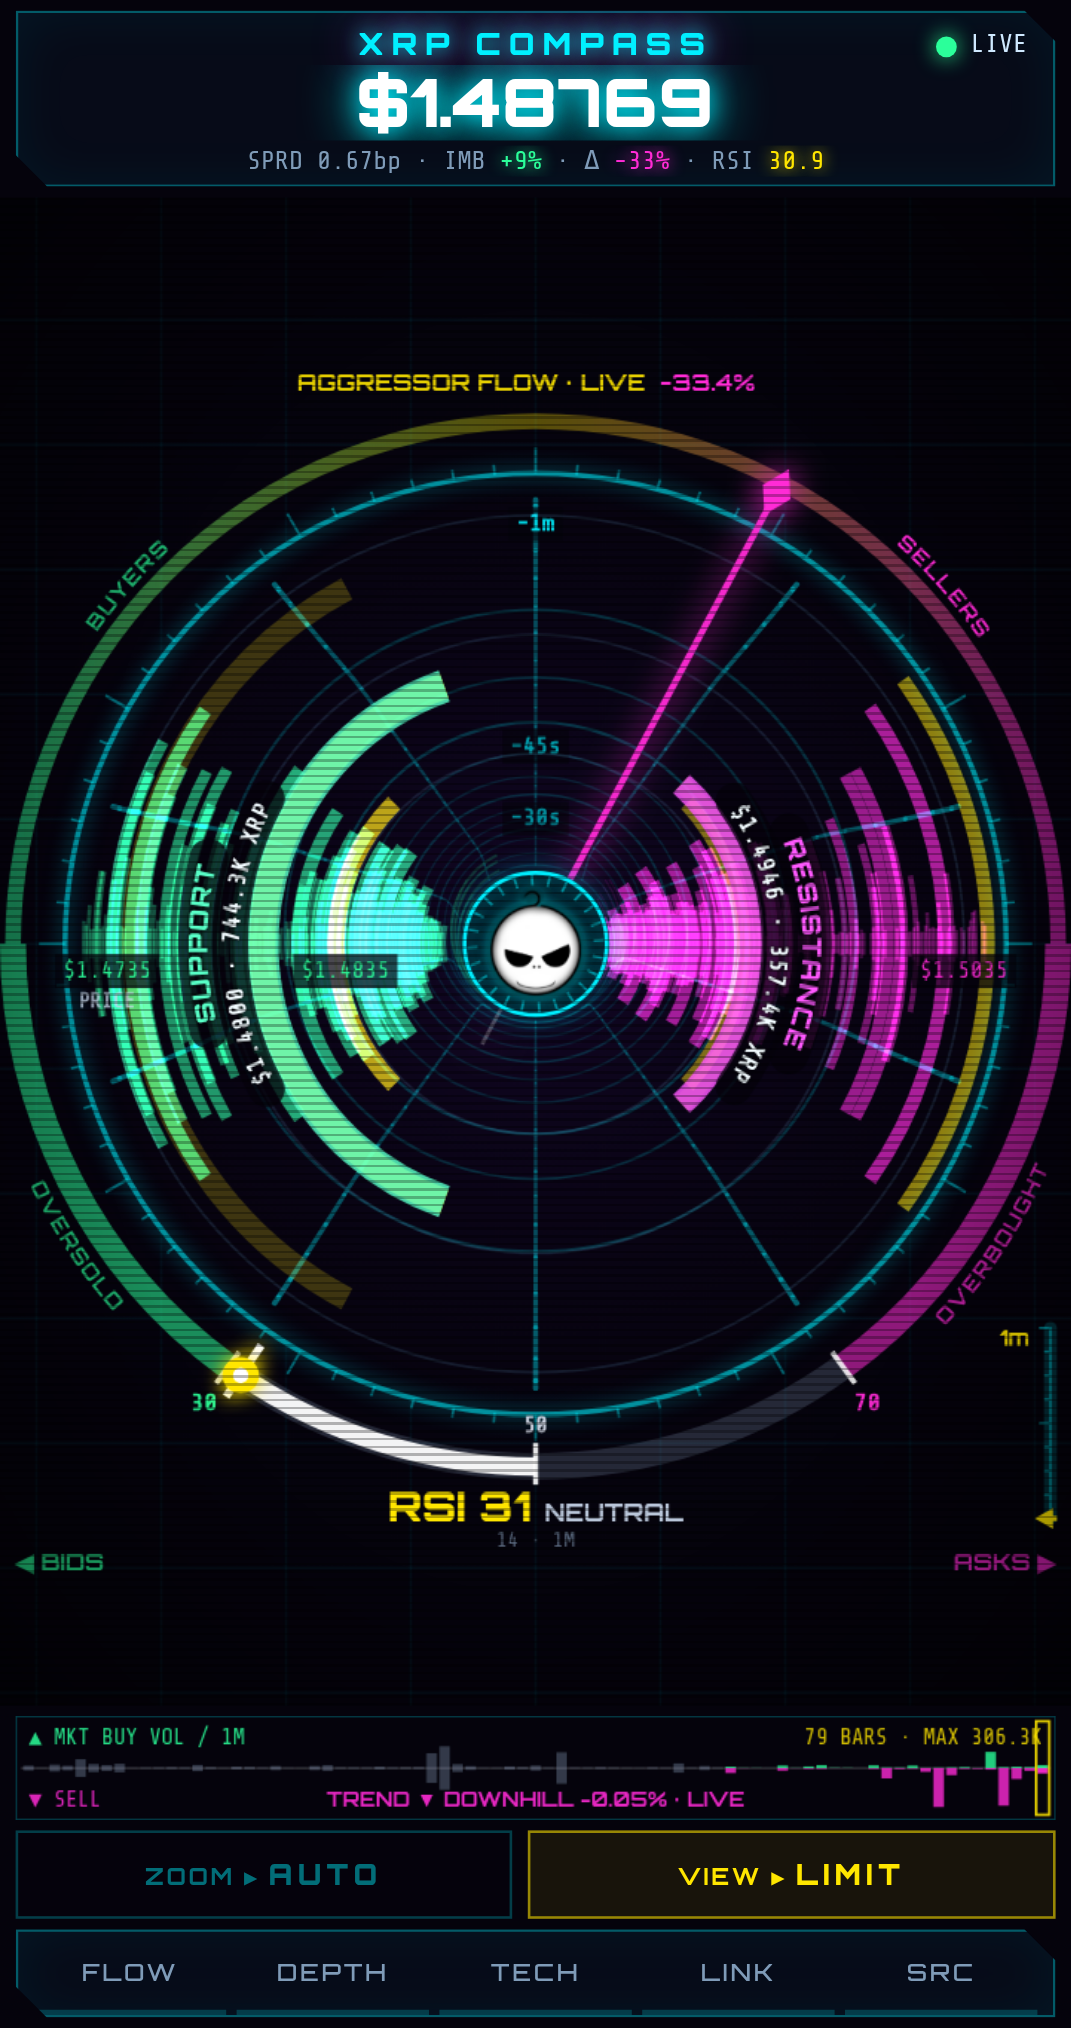
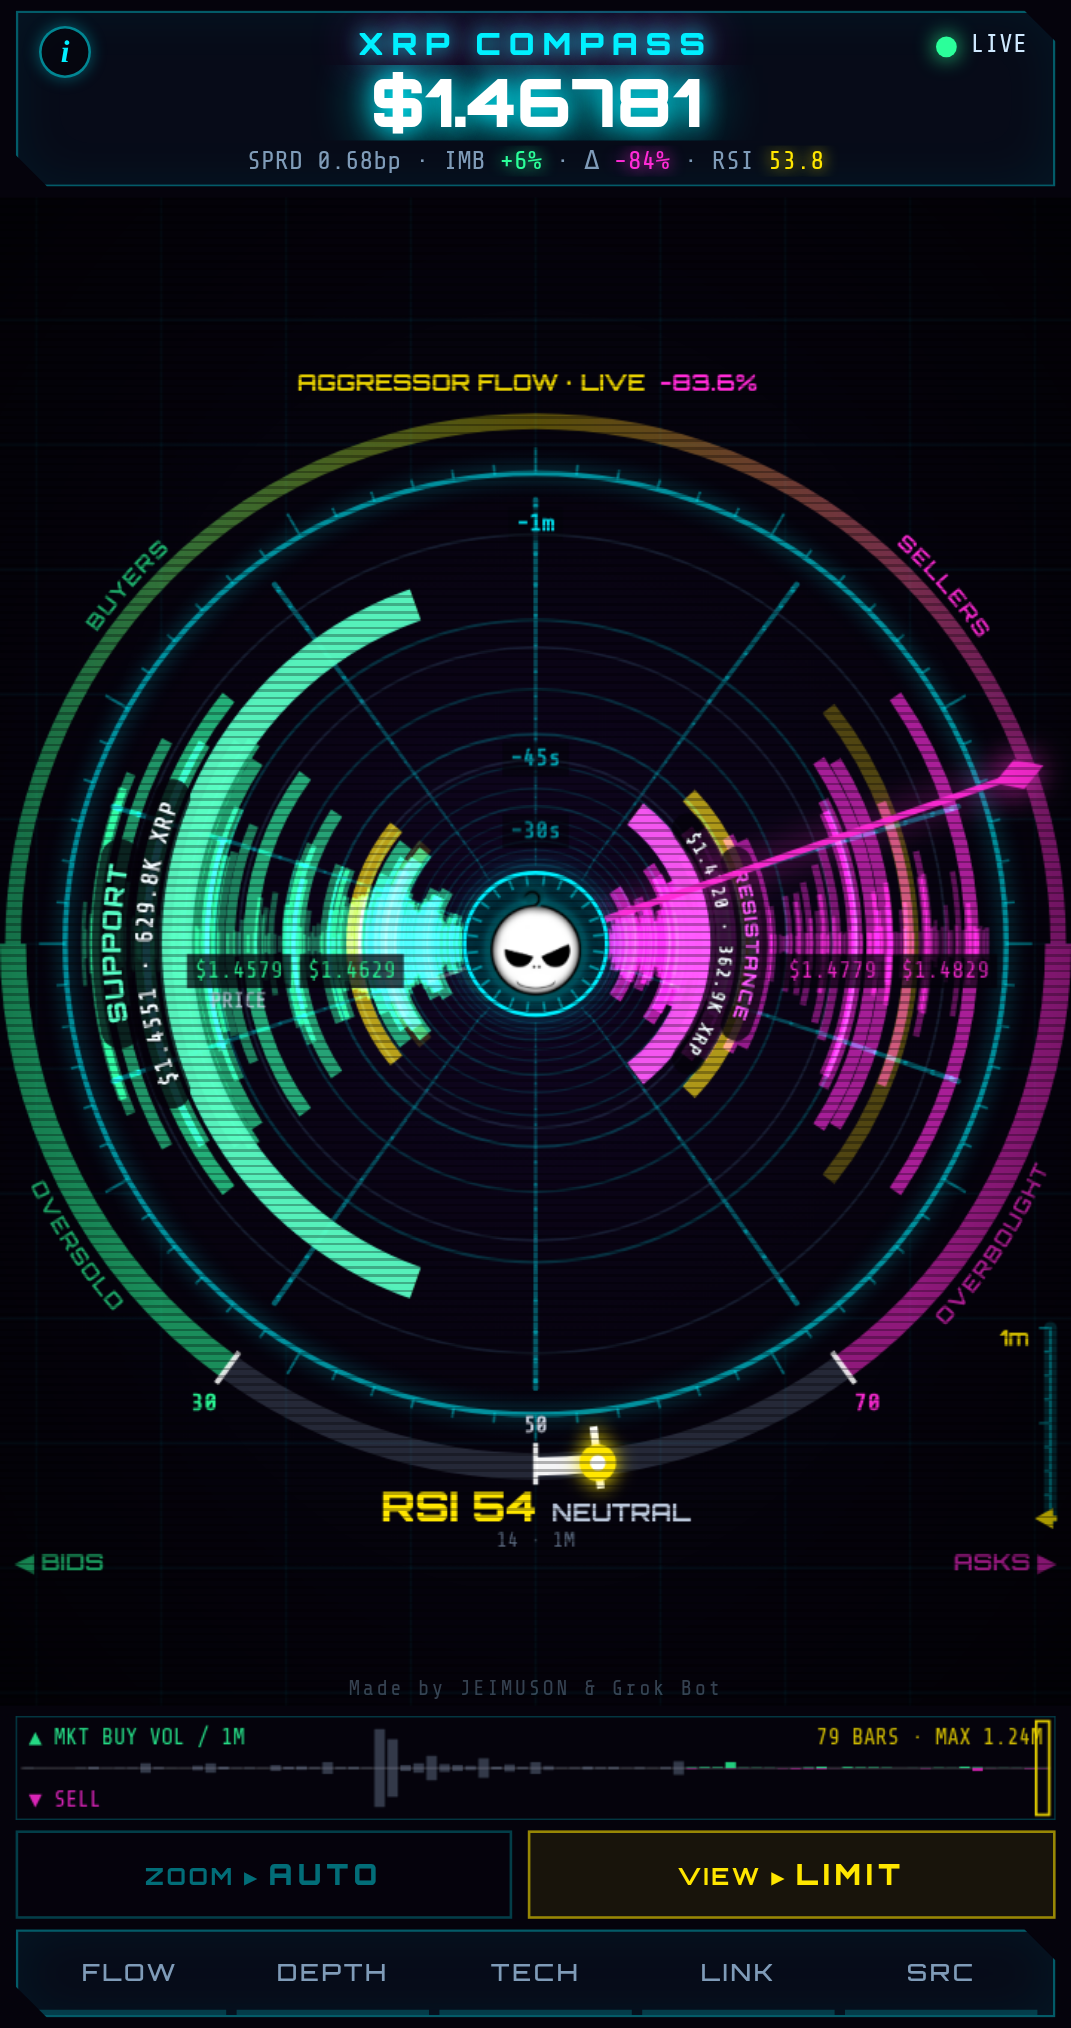
Info panel + credit; MARKET AUTO retune: 45s baseline, 60s dead-slow, price-aware tightening (build 20261002-1520)

diff --git a/index.html b/index.html
@@ -3,7 +3,7 @@
 <head>
 <meta charset="utf-8">
 <meta http-equiv="Cache-Control" content="no-cache, no-store, must-revalidate"><meta http-equiv="Pragma" content="no-cache"><meta http-equiv="Expires" content="0">
-<script>window.OFC_BUILD='20261002-1424';(function(){try{if(!/^https?:/.test(location.protocol))return;fetch(location.pathname+'?_='+Date.now(),{cache:'no-store'}).then(r=>r.text()).then(t=>{const m=t.match(/OFC_BUILD='([^']+)'/);if(m&&m[1]!==window.OFC_BUILD&&sessionStorage.getItem('ofcB')!==m[1]){sessionStorage.setItem('ofcB',m[1]);location.replace(location.pathname+'?v='+m[1]+location.hash);}}).catch(()=>{});}catch(e){}})();</script>
+<script>window.OFC_BUILD='20261002-1520';(function(){try{if(!/^https?:/.test(location.protocol))return;fetch(location.pathname+'?_='+Date.now(),{cache:'no-store'}).then(r=>r.text()).then(t=>{const m=t.match(/OFC_BUILD='([^']+)'/);if(m&&m[1]!==window.OFC_BUILD&&sessionStorage.getItem('ofcB')!==m[1]){sessionStorage.setItem('ofcB',m[1]);location.replace(location.pathname+'?v='+m[1]+location.hash);}}).catch(()=>{});}catch(e){}})();</script>
 <meta name="viewport" content="width=device-width,initial-scale=1,viewport-fit=cover,user-scalable=no">
 <meta name="theme-color" content="#05030c">
 <meta name="color-scheme" content="dark">
@@ -133,14 +133,56 @@ body.hublogo #top .logo{display:none}   /* mobile: logo lives in the compass hub
  #pages h3{margin-right:0}
  .bar{margin:2px 0 3px}
 }
+#infoBtn{position:absolute;left:8px;top:5px;width:20px;height:20px;padding:0;border-radius:50%;background:rgba(5,3,12,.6);border:1px solid rgba(0,240,255,.55);color:var(--cy);font:italic 700 12px/18px Georgia,serif;text-align:center;cursor:pointer;z-index:2;box-shadow:0 0 6px rgba(0,240,255,.35)}
+#infoBtn:hover,#infoBtn:focus-visible{color:#fff;border-color:var(--yl);box-shadow:0 0 10px rgba(255,230,0,.5);outline:none}
+#info{display:none;position:fixed;inset:0;z-index:60;background:rgba(2,1,8,.72);align-items:center;justify-content:center;padding:calc(var(--st) + 12px) 12px calc(var(--sb) + 12px)}
+#info.on{display:flex}
+#infoBox{position:relative;width:min(560px,100%);max-height:100%;overflow-y:auto;-webkit-overflow-scrolling:touch;overscroll-behavior:contain;background:rgba(8,14,28,.97);padding:14px 16px 12px;font-size:13px;line-height:1.45;color:#cfe9ff;-webkit-user-select:text;user-select:text;touch-action:pan-y}
+#infoBox h2{font-family:Orbitron,sans-serif;font-size:12px;letter-spacing:3px;color:var(--cy);text-shadow:0 0 8px var(--cy);margin:0 40px 8px 0}
+#infoBox h3{font-size:10px;margin:10px 0 4px}
+#infoBox ul{list-style:none}
+#infoBox li{position:relative;padding-left:12px;margin:2px 0}
+#infoBox li:before{content:'›';position:absolute;left:0;color:var(--cy)}
+#infoBox b{color:#fff;font-weight:700}#infoBox b.gr{color:var(--gr)}#infoBox b.rd{color:var(--rd)}
+#infoX{position:absolute;top:8px;right:10px;width:34px;height:24px;background:transparent;border:1px solid rgba(0,240,255,.45);color:var(--cy);font-size:14px;cursor:pointer}
+.infoCred{font-family:Orbitron,sans-serif;font-size:10px;letter-spacing:2px;color:var(--cy);text-align:center;margin-top:12px;text-shadow:0 0 6px rgba(0,240,255,.6)}
+#credit{position:absolute;left:50%;bottom:2px;transform:translateX(-50%);z-index:9;pointer-events:none;white-space:nowrap;font-size:8px;letter-spacing:1px;color:rgba(160,200,230,.32)}
+@media (min-aspect-ratio:1/1){#credit{left:6px;transform:none;bottom:3px;font-size:9px}}
+.infoFoot{font-size:10px;color:#5f7a95;text-align:center;margin-top:10px}
+@media (min-aspect-ratio:1/1) and (min-width:900px) and (min-height:700px){#infoBox{font-size:15px;width:min(640px,100%);padding:20px 24px 16px}#infoBox h2{font-size:14px}#infoBox h3{font-size:12px}}
 #glitch{position:fixed;inset:0;z-index:7;pointer-events:none;opacity:0}
 </style>
 </head>
 <body>
+<div id="info" role="dialog" aria-modal="true" aria-labelledby="infoT"><div id="infoBox" class="panel">
+ <button id="infoX" aria-label="close">✕</button>
+ <h2 id="infoT">// WHAT YOU'RE SEEING</h2>
+ <h3>MARKET VIEW · LIVE TRADES</h3>
+ <ul><li>Every trade lands on a <b>spiral</b>: newest on the outer ring, older ones wind into the center.</li>
+ <li>One lap = the time window (15–60s, shown on the zoom bar).</li>
+ <li>Trail swings <b>out</b> = price up, <b>in</b> = price down.</li>
+ <li><b class="gr">Green</b> = buyers, <b class="rd">red</b> = sellers. Thicker trail = more volume.</li>
+ <li><b>Flares</b> mark the spots with the heaviest trading.</li></ul>
+ <h3>LIMIT VIEW · ORDER-BOOK WALLS</h3>
+ <ul><li>Arcs are <b>walls</b> of waiting orders: <b class="gr">buyers left</b>, <b class="rd">sellers right</b>.</li>
+ <li>Distance from the middle = distance from the current price.</li>
+ <li>Bigger, brighter arc = bigger wall.</li>
+ <li>New walls start at the center and drift outward over time. A wall that stays is <b>holding</b>; one that vanishes was <b>pulled or eaten</b>.</li>
+ <li><b class="gr">SUPPORT</b> / <b class="rd">RESISTANCE</b> = the strongest nearby wall on each side.</li></ul>
+ <h3>AUTO ZOOM</h3>
+ <ul><li><b>MARKET:</b> normal traffic shows ~45s, dead-slow up to 60s. Price moves tighten it; volume bursts snap to a 15s vortex.</li>
+ <li><b>LIMIT:</b> quiet = 15s; heavy trading zooms out to 1m so you see walls get hit.</li>
+ <li><b>AUTO off</b> = full zoom out; then zoom by pinch, wheel or the zoom bar.</li></ul>
+ <h3>ALSO</h3>
+ <ul><li><b>RSI arc</b> (bottom): momentum. Left = oversold, right = overbought.</li>
+ <li><b>SRC</b>: venues feeding the book. Pick ALL or one exchange.</li></ul>
+ <div class="infoCred">Made by JEIMUSON &amp; Grok Bot</div>
+ <div class="infoFoot">tap outside, ✕ or Esc to close</div>
+</div></div>
 <div id="app">
-<div id="colA"><div id="stage"><canvas id="cv"></canvas><div id="vig"></div><div id="scan"></div><canvas id="lcv"></canvas></div><canvas id="vcv"></canvas></div>
+<div id="colA"><div id="stage"><canvas id="cv"></canvas><div id="vig"></div><div id="scan"></div><canvas id="lcv"></canvas><div id="credit" aria-hidden="true">Made by JEIMUSON &amp; Grok Bot</div></div><canvas id="vcv"></canvas></div>
 <div id="colB">
-<div class="panel" id="top">
+<div class="panel" id="top"><button id="infoBtn" aria-label="what am I looking at?" title="what am I looking at?">i</button>
  <div class="l1"><img class="logo" src="logo-64.png" srcset="logo-64.png 1x, logo-128.png 2x, logo.png 3x" alt="" width="22" height="22"><div class="t1">XRP&nbsp;COMPASS</div><div class="conn" id="conn"><span class="dot" style="background:#555"></span>INIT</div></div>
  <div class="lp"><div class="big" id="mid">—</div></div>
  <div class="l2">SPRD <span id="spread">—</span> · IMB <span id="imb">—</span> · Δ <span id="dlt">—</span> · RSI <span id="rsiTop">—</span></div>
@@ -369,6 +411,10 @@ let burst={on:false,until:0,rel:0,r3:0,base:0,usd3:0};
 // LIMIT + AUTO (opposite of MARKET): quiet tape -> 15 s depth; heavier traffic vs the 60 s baseline -> deeper, toward 1 m; burst -> full 1 m.
 // rho = 3 s USD rate / 60 s baseline: rho<=1 -> 15 s, rho=2 -> 30 s, rho>=3 (=BURST_X) or burst -> 60 s (log scale). Deeper targets hold 5 s (burst: +6.5 s burst hold) before easing back in.
 let LT={w:15,hold:0,rho:0};
+// MARKET + AUTO window: volume sets the baseline (normal -> 45 s, dead-slow -> 60 s); price moves tighten it toward 15 s; a volume burst snaps to 15 s.
+//  q  = 60 s USD rate / 10 min EMA of that rate:   q>=0.6 -> 45 s,  q<=0.25 -> 60 s (log-interp between)
+//  z  = max |mid move| over last 10 s / 5 min EMA of that same measure (typical 10 s move):  z<=1.5 -> no change, z>=4 -> 15 s (log-interp)
+let MT={w:45,hold:0,q:1,z:0,vb:0,sg:0,t0:0,mp:[]};
 setInterval(()=>{if(!trades.length)return;const n=Date.now();let u3=0,u60=0,old=n;
   for(let i=trades.length-1;i>=0;i--){const t=trades[i],ag=n-t.t;if(ag>63000)break;const u=t.qty*t.px;if(ag<=3000)u3+=u;else u60+=u;old=Math.min(old,t.t);}
   const bspan=Math.min(60,(n-old)/1000-3), base=bspan>=20?u60/bspan:0, r3=u3/3;
@@ -376,6 +422,16 @@ setInterval(()=>{if(!trades.length)return;const n=Date.now();let u3=0,u60=0,old=
   if(base>0&&r3>=BURST_X*base&&u3>=BURST_MIN_USD)burst.until=n+BURST_HOLD;
   {const rho=base>0&&u3>=BURST_MIN_USD*0.2?r3/base:0,k=Math.max(0,Math.min(1,(rho-1)/(BURST_X-1)));LT.rho=rho;
     const wt=n<burst.until?LWMAX:WMIN*Math.pow(LWMAX/WMIN,k);if(wt>=LT.w){LT.w=wt;LT.hold=n+5000;}else if(n>LT.hold)LT.w=wt;}
+  {if(!MT.t0)MT.t0=n;const el=(n-MT.t0)/1000,cl=x=>Math.max(0,Math.min(1,x));
+    if(mid){MT.mp.push([n,mid]);while(MT.mp.length&&n-MT.mp[0][0]>10000)MT.mp.shift();}
+    let mv=0;for(const e of MT.mp)mv=Math.max(mv,Math.abs(mid-e[1]));
+    const span10=MT.mp.length?(n-MT.mp[0][0])/1000:0, fl=(mid||1)*0.00002;
+    if(span10>=8){const a=1-Math.exp(-0.25/Math.min(300,10+el));MT.sg=MT.sg?MT.sg+(Math.max(mv,fl)-MT.sg)*a:Math.max(mv,fl);}
+    if(base>0){const a=1-Math.exp(-0.25/Math.min(600,20+el));MT.vb=MT.vb?MT.vb+(base-MT.vb)*a:base;}
+    MT.q=bspan>=20&&MT.vb>0?base/MT.vb:1; MT.z=MT.sg>0&&span10>=8?mv/MT.sg:0;
+    const kv=cl((MT.q-0.25)/0.35), wv=MWMAX*Math.pow(45/MWMAX,kv), kp=cl((MT.z-1.5)/2.5);
+    const wt=n<burst.until?BURST_WIN:wv*Math.pow(WMIN/wv,kp);
+    if(wt<=MT.w){MT.w=wt;MT.hold=n+3000;}else if(n>MT.hold)MT.w=wt;}
   const was=burst.on;burst.on=n<burst.until;if(was&&!burst.on)burst.rel=n;},250);
 
 // ---------------- trades ----------------
@@ -1503,9 +1559,7 @@ function frame(){
   if(mid&&sortedB.length>5&&sortedA.length>5){
     {const db=mid-sortedB[Math.floor(sortedB.length*0.7)][0], da=sortedA[Math.floor(sortedA.length*0.7)][0]-mid;let f;
       if(VIEW==='market'){ // fit the recent trade price range so bubbles spread across the dial
-        const dev=Wn=>{let mx=0;for(let a=0;a<=Math.min(trail.length-1,Wn);a++)if(trail[a].Ps!=null)mx=Math.max(mx,Math.abs(trail[a].Ps-mid));return mx;};
-        const full=dev(MWMAX);let Wsel=MWMAX;if(full>mid*0.00003)for(const Wn of [15,20,30,45,60]){if(dev(Wn)>=0.7*full){Wsel=Wn;break;}}
-        if(burst.on)Wsel=BURST_WIN;   // volume burst -> tight vortex
+        const Wsel=burst.on?BURST_WIN:MT.w;   // volume burst -> tight vortex; else volume baseline (45/60 s) tightened by price moves (see MT)
         f=zR(Math.log(MWMAX/Wsel)/Math.log(MWMAX/WMIN));
       }else{f=Math.max(db,da)/mid;}
       f=Math.min(ZMAX,Math.max(ZMIN,f)); fitFrac=f;
@@ -1549,8 +1603,17 @@ function frame(){
 connect();seedREST();
 requestAnimationFrame(frame);
 document.addEventListener('visibilitychange',()=>{if(!document.hidden&&(!ws||ws.readyState>1)){backoff=1000;connect();}});
-window.__ofc={get lt(){return {w:+LT.w.toFixed(1),rho:+LT.rho.toFixed(2),lwin:+LWIN.toFixed(1),burst:burst.on}},get keyWalls(){return VIEW==='limit'?{...KEYW,nSig:{bid:topWalls.bid.length,ask:topWalls.ask.length},marks:PLBL.map(q=>q.txt)}:null},simFlat(){SIM={on:true,base:mid,t0:0,dir:0,amp:0,ramp:1};},simMove(dir,frac,ramp){SIM.t0=Date.now();SIM.dir=dir;SIM.amp=frac*SIM.base;SIM.ramp=ramp;},get resp(){const v=proj(HIST_SEC),m=proj(HIST_SEC*0.4);return {tw:+(TWIST_MAX*VSP.w*180/Math.PI).toFixed(2),vp:+(v.y-CY).toFixed(1),vm:+(m.y-CY).toFixed(1),o3:+((window.__ofcR||{}).o3||0).toFixed(1),o8:+((window.__ofcR||{}).o8||0).toFixed(1),mw:+MWIN.toFixed(1),dr:dispRange,pr:pathRef}},get bp(){return BP.length},autoOff(){pillT=0;if(rangeAuto)pillTap();},get dr(){return dispRange},get hubLogo(){return !WIDE&&LOGO.complete&&LOGO.naturalWidth>0},get hdrLogo(){const e=document.querySelector('#top .logo');return !!e&&getComputedStyle(e).display!=='none'},get flares(){return VIEW==='market'?[...FLR.entries()].map(([k,F])=>{const p=F.dx!=null?{x:F.dx,y:F.dy}:null;return {k,T:F.T,tT:trailT,st:trailStep,w:+F.w.toFixed(2),on:!!F.on,side:F.c===COL.bid?'bid':'ask',x:p?Math.round(p.x):null,y:p?Math.round(p.y):null};}):null},winTo(S){intro=null;setAuto(false);syncZA();let lo=0,hi=1;const f=u=>mWinOf(zR(u));const dec=f(0)>f(1);for(let i=0;i<40;i++){const m=(lo+hi)/2;if((f(m)>S)===dec)lo=m;else hi=m;}rangeFrac=zR((lo+hi)/2);return f((lo+hi)/2);},get vring(){if(VIEW!=='market')return null;const p=proj(HIST_SEC);return {full:+(RMAX*p.s).toFixed(1),r:+(RMAX*p.s).toFixed(1),x:Math.round(p.x),y:Math.round(p.y),R0:Math.round(R0)}},get twist(){return VIEW==='market'?+(TWIST_MAX*VSP.w*180/Math.PI).toFixed(1):0},get spin(){return {w:+VSP.w.toFixed(3),ph:+VSP.ph.toFixed(3)}},zManual(){intro=null;setAuto(false);syncZA();},get burst(){return {...burst,now:Date.now()}},simBurst(usd){const px=trades.length?trades[trades.length-1].px:mid,n=Date.now();for(let k=0;k<8;k++)trades.push({t:n-(7-k)*300,side:k%2?'sell':'buy',qty:usd/8/px,px,v:'kraken'});trailDirty=true;},get auto(){return rangeAuto},zAuto(){intro=null;setAuto(true);syncZA();},zIn(){intro=null;setAuto(false);rangeFrac=zR(1);syncZA();},get mwin(){return +MWIN.toFixed(1)},get lwin(){return +LWIN.toFixed(1)},get prange(){return PRANGE},get disp(){return dispRange},get plbl(){return PLBL.map(q=>q.txt)},get hubTxt(){return mid?hubTxt():null},get head(){return {x:Math.round(TRHEAD.x),y:Math.round(TRHEAD.y),CX,CY,R0:Math.round(R0),RMAX:Math.round(RMAX)}},get logo(){const g=logoGeom();return g&&{x:Math.round(g.x),y:Math.round(g.y),S:g.S,CX,CY,RMAX,W,H,Z:zbarGeom()}},get ven(){return Object.fromEntries(Object.entries(VEN).map(([k,v])=>[k,{st:v.st,share:+v.share.toFixed(3),books:BOOKS.filter(B=>B.v===k).map(B=>({k:B.k,ready:B.ready,n:B.b.size+B.a.size,ck:B.ckOk,ckBad:B.ckBad,resyncs:B.resyncs}))}]))},get src(){return SRC},setSource,get comb(){return {ready:BREADY,mid,bestBid,bestAsk,nb:sortedB.length,na:sortedA.length}},get raw(){return RAW.length},get flow(){const f=flow(30);return {b:Math.round(f.b),s:Math.round(f.s),r:+f.r.toFixed(3)}},get trendW(){return trendWin()},get win(){return winSec},get heatN(){return Object.fromEntries(Object.entries(HEATS).map(([w,H])=>[w,H.m.size]))},get intro(){return intro},book,get mid(){return mid},get ck(){return {ckOk,ckBad,ckLast}},get trades(){return tradeCount},get bubbles(){return bubbles.length},get hist(){return history.length},get ind(){return ind},get candles(){return candles.size},get dir(){return INBOUND?'in':'out'},get view(){return VIEW},get layout(){return {W,H,CX,CY,RMAX,R0,WIDE}},get tunnel(){const far=proj(HIST_SEC);return {FOCAL,farScale:far.s,farY:far.y-CY,dispRange,fitFrac,rangeAuto,RMAX}},zoom(f){setAuto(false);rangeFrac=Math.min(0.08,Math.max(0.0005,rangeFrac*f));},autoZoom(){setAuto(true);},get autoOn(){return rangeAuto},get zgeom(){return zbarGeom()},get conn(){return connState},get fps(){return FPS},get q(){return Q},get rc(){return reconnects},forceDrop(){ws&&ws.close();}};
+window.__ofc={get mt(){return {w:+MT.w.toFixed(1),q:+MT.q.toFixed(2),z:+MT.z.toFixed(2),sg:MT.sg,burst:burst.on}},get lt(){return {w:+LT.w.toFixed(1),rho:+LT.rho.toFixed(2),lwin:+LWIN.toFixed(1),burst:burst.on}},get keyWalls(){return VIEW==='limit'?{...KEYW,nSig:{bid:topWalls.bid.length,ask:topWalls.ask.length},marks:PLBL.map(q=>q.txt)}:null},simFlat(){SIM={on:true,base:mid,t0:0,dir:0,amp:0,ramp:1};},simMove(dir,frac,ramp){SIM.t0=Date.now();SIM.dir=dir;SIM.amp=frac*SIM.base;SIM.ramp=ramp;},get resp(){const v=proj(HIST_SEC),m=proj(HIST_SEC*0.4);return {tw:+(TWIST_MAX*VSP.w*180/Math.PI).toFixed(2),vp:+(v.y-CY).toFixed(1),vm:+(m.y-CY).toFixed(1),o3:+((window.__ofcR||{}).o3||0).toFixed(1),o8:+((window.__ofcR||{}).o8||0).toFixed(1),mw:+MWIN.toFixed(1),dr:dispRange,pr:pathRef}},get bp(){return BP.length},autoOff(){pillT=0;if(rangeAuto)pillTap();},get dr(){return dispRange},get hubLogo(){return !WIDE&&LOGO.complete&&LOGO.naturalWidth>0},get hdrLogo(){const e=document.querySelector('#top .logo');return !!e&&getComputedStyle(e).display!=='none'},get flares(){return VIEW==='market'?[...FLR.entries()].map(([k,F])=>{const p=F.dx!=null?{x:F.dx,y:F.dy}:null;return {k,T:F.T,tT:trailT,st:trailStep,w:+F.w.toFixed(2),on:!!F.on,side:F.c===COL.bid?'bid':'ask',x:p?Math.round(p.x):null,y:p?Math.round(p.y):null};}):null},winTo(S){intro=null;setAuto(false);syncZA();let lo=0,hi=1;const f=u=>mWinOf(zR(u));const dec=f(0)>f(1);for(let i=0;i<40;i++){const m=(lo+hi)/2;if((f(m)>S)===dec)lo=m;else hi=m;}rangeFrac=zR((lo+hi)/2);return f((lo+hi)/2);},get vring(){if(VIEW!=='market')return null;const p=proj(HIST_SEC);return {full:+(RMAX*p.s).toFixed(1),r:+(RMAX*p.s).toFixed(1),x:Math.round(p.x),y:Math.round(p.y),R0:Math.round(R0)}},get twist(){return VIEW==='market'?+(TWIST_MAX*VSP.w*180/Math.PI).toFixed(1):0},get spin(){return {w:+VSP.w.toFixed(3),ph:+VSP.ph.toFixed(3)}},zManual(){intro=null;setAuto(false);syncZA();},get burst(){return {...burst,now:Date.now()}},simBurst(usd){const px=trades.length?trades[trades.length-1].px:mid,n=Date.now();for(let k=0;k<8;k++)trades.push({t:n-(7-k)*300,side:k%2?'sell':'buy',qty:usd/8/px,px,v:'kraken'});trailDirty=true;},get auto(){return rangeAuto},zAuto(){intro=null;setAuto(true);syncZA();},zIn(){intro=null;setAuto(false);rangeFrac=zR(1);syncZA();},get mwin(){return +MWIN.toFixed(1)},get lwin(){return +LWIN.toFixed(1)},get prange(){return PRANGE},get disp(){return dispRange},get plbl(){return PLBL.map(q=>q.txt)},get hubTxt(){return mid?hubTxt():null},get head(){return {x:Math.round(TRHEAD.x),y:Math.round(TRHEAD.y),CX,CY,R0:Math.round(R0),RMAX:Math.round(RMAX)}},get logo(){const g=logoGeom();return g&&{x:Math.round(g.x),y:Math.round(g.y),S:g.S,CX,CY,RMAX,W,H,Z:zbarGeom()}},get ven(){return Object.fromEntries(Object.entries(VEN).map(([k,v])=>[k,{st:v.st,share:+v.share.toFixed(3),books:BOOKS.filter(B=>B.v===k).map(B=>({k:B.k,ready:B.ready,n:B.b.size+B.a.size,ck:B.ckOk,ckBad:B.ckBad,resyncs:B.resyncs}))}]))},get src(){return SRC},setSource,get comb(){return {ready:BREADY,mid,bestBid,bestAsk,nb:sortedB.length,na:sortedA.length}},get raw(){return RAW.length},get flow(){const f=flow(30);return {b:Math.round(f.b),s:Math.round(f.s),r:+f.r.toFixed(3)}},get trendW(){return trendWin()},get win(){return winSec},get heatN(){return Object.fromEntries(Object.entries(HEATS).map(([w,H])=>[w,H.m.size]))},get intro(){return intro},book,get mid(){return mid},get ck(){return {ckOk,ckBad,ckLast}},get trades(){return tradeCount},get bubbles(){return bubbles.length},get hist(){return history.length},get ind(){return ind},get candles(){return candles.size},get dir(){return INBOUND?'in':'out'},get view(){return VIEW},get layout(){return {W,H,CX,CY,RMAX,R0,WIDE}},get tunnel(){const far=proj(HIST_SEC);return {FOCAL,farScale:far.s,farY:far.y-CY,dispRange,fitFrac,rangeAuto,RMAX}},zoom(f){setAuto(false);rangeFrac=Math.min(0.08,Math.max(0.0005,rangeFrac*f));},autoZoom(){setAuto(true);},get autoOn(){return rangeAuto},get zgeom(){return zbarGeom()},get conn(){return connState},get fps(){return FPS},get q(){return Q},get rc(){return reconnects},forceDrop(){ws&&ws.close();}};
 })();
+// ---------------- INFO overlay: what am I looking at? (✕ / tap outside / Esc) ----------------
+(function(){const I=document.getElementById('info'),B=document.getElementById('infoBtn');if(!I||!B)return;
+  const open=()=>{I.classList.add('on');document.getElementById('infoX').focus({preventScroll:true});},close=()=>{I.classList.remove('on');B.focus({preventScroll:true});};
+  B.addEventListener('click',e=>{e.stopPropagation();open();});
+  document.getElementById('infoX').addEventListener('click',e=>{e.stopPropagation();close();});
+  I.addEventListener('click',e=>{if(e.target===I)close();e.stopPropagation();});
+  ['touchstart','touchmove','touchend','wheel','mousedown'].forEach(ev=>I.addEventListener(ev,e=>e.stopPropagation(),{passive:true}));
+  addEventListener('keydown',e=>{if(e.key==='Escape'&&I.classList.contains('on'))close();});
+  window.__info={open,close,get on(){return I.classList.contains('on')}};})();
 </script>
 </body>
 </html>
